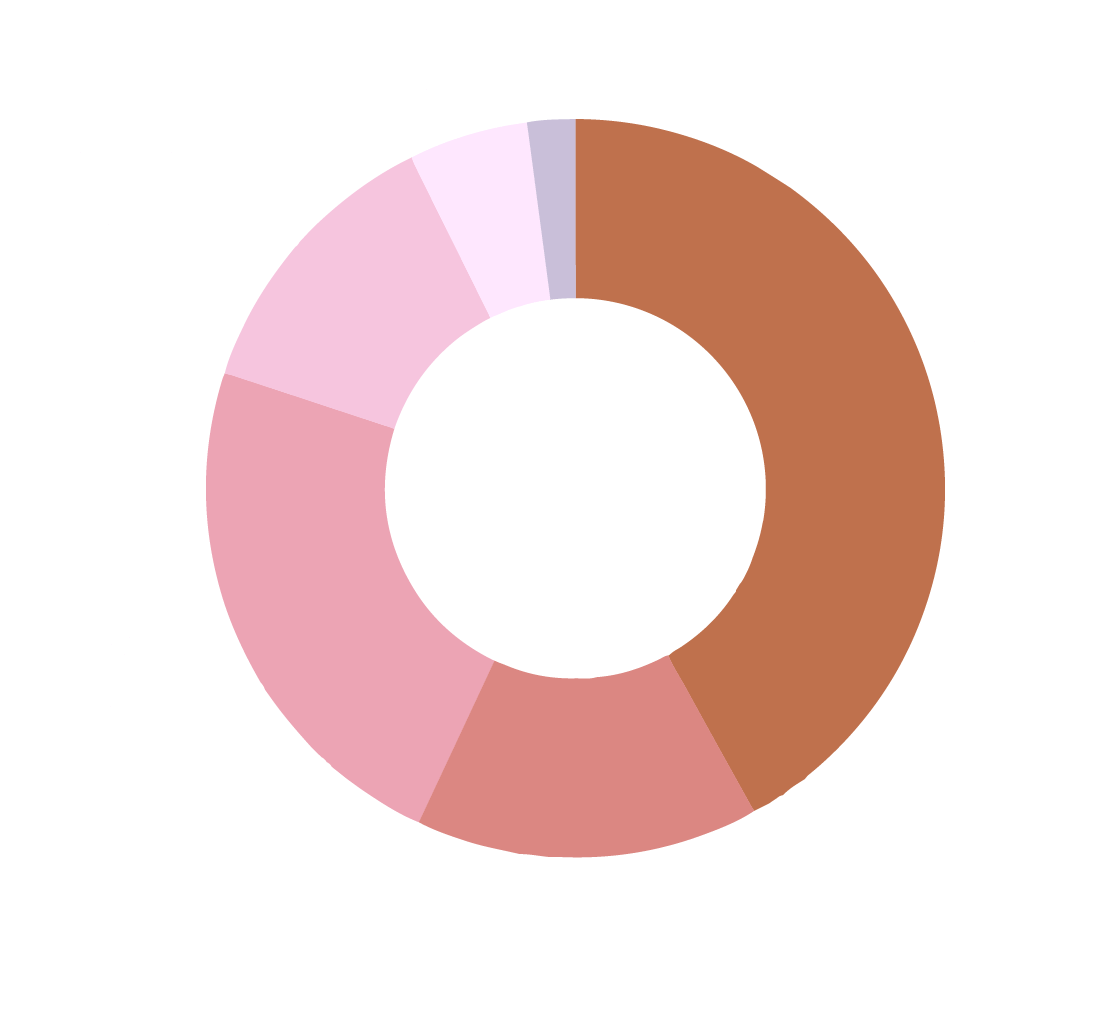
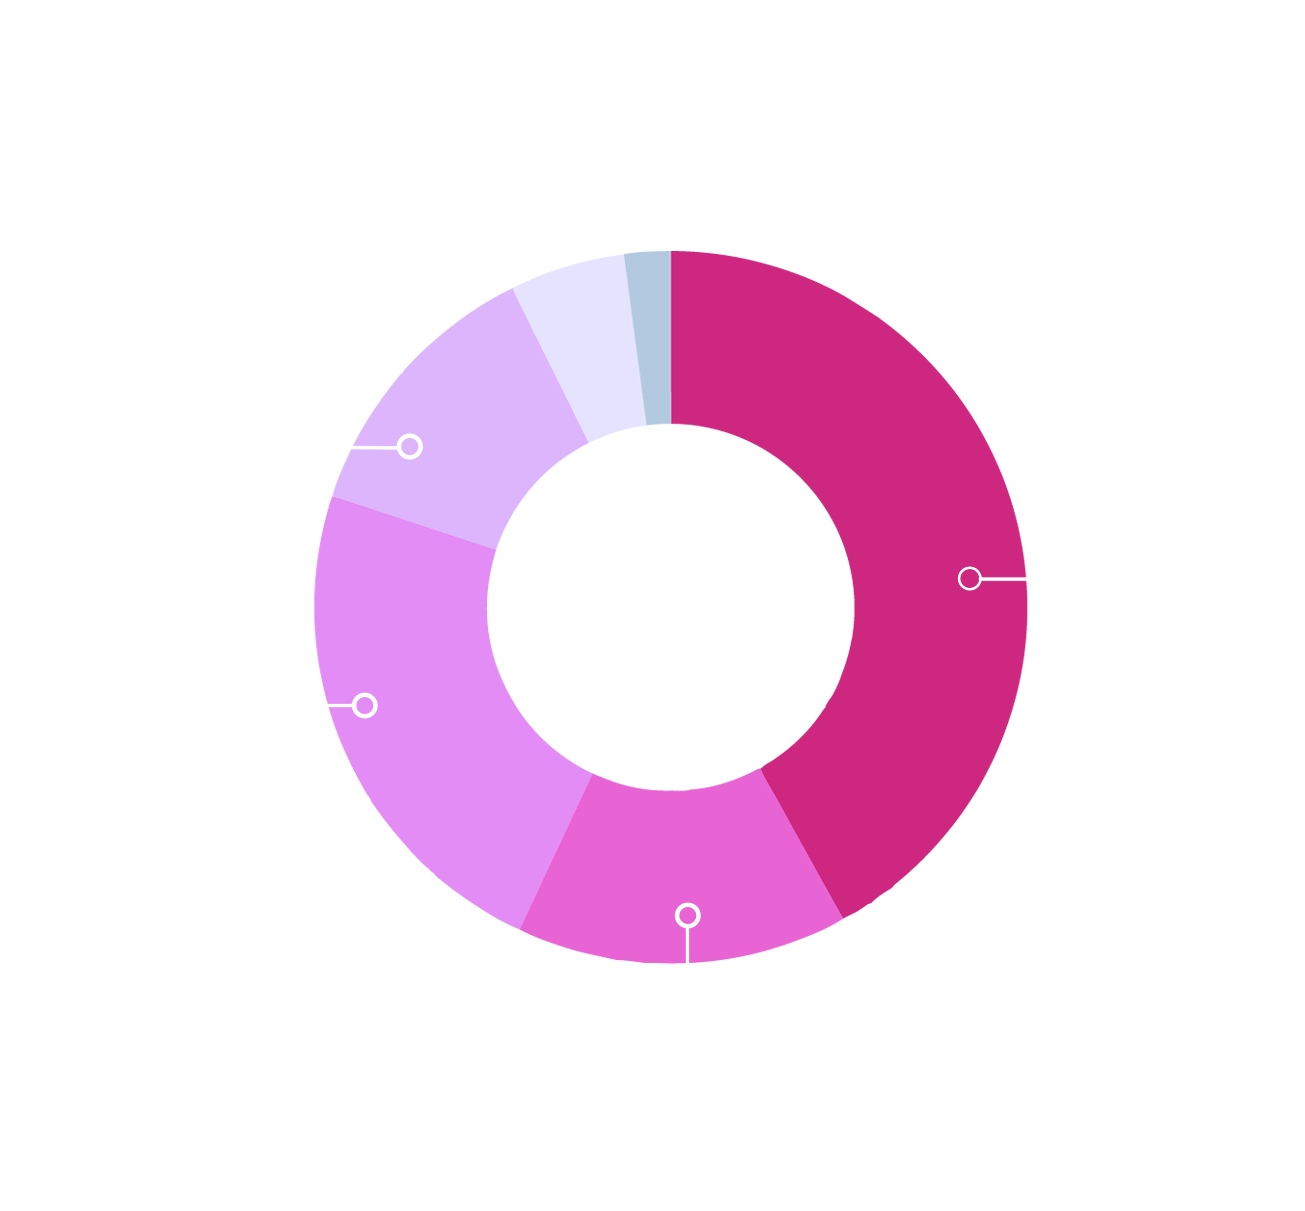
ouo

Changed region(s): [[0.1836, 0.0931, 0.8569, 0.838]]

diff --git a/index.html b/index.html
@@ -701,52 +701,54 @@ partners.</p>
 <h1 class="fw_600 yellow">Our Tokenomics</h1>
 </div>
 <div class="row tokenomicsbox align-items-center justify-content-center">
-<div class="col-md-5 order-2 order-md-1 my-4 my-md-0">
-<div class="tokenomics_card px-3 py-5">
-<div class="align-items-center m-0">
-<div class="fw_img"><img src="images/Tokenomics_img_1.png" alt="tokenomics images"></div>
-<div class="fw_txt">
-<h5 class="fw-normal left"><span class="fw-bold">Token Symbol:</span> RABIDDOGE OGE <br>
-<span class="fw-bold">Total Supply:</span><br>
-1,000,000,000,000,000 <br>
-<span class="fw-bold">Farming:</span> 40%<br>
-<span class="fw-bold">liquidity pool:</span> 14.3%<br>
-<span class="fw-bold">presale :</span> 22%<br>
-<span class="fw-bold">Private sale:</span> 12%(10% has been placed into Private Wallet Address)
-<br>
-<span class="fw-bold">Coin Burnt:</span> 4.7%<br>
-<span class="fw-bold">Airdrop:</span> 5%(4% has been placed into Airdrop Wallet Address)
-<br>
-<span class="fw-bold">IDO Fee:</span> 2%<br>
-<br>
-</h5>
-</div>
-</div>
-</div>
-<ul class="total">
-<li>After Presale, 65% of BNB goes into LP.</li>
-<li>2% to IDO handling fee.</li>
-<li>The rest will be into BNB farming pool and marketing.</li>
-</ul>
+<div class="col-md-5 order-2 order-md-1 my-4 my-md-0 text-center" >
+
+
+<img src="images/graph.png" alt="tokenomics images" height="400px">
+
+
+
+
+
 </div>
 <div class="col-md-5 order-3 order-md-3 Buying">
 <div class="tokenomics_card px-3 py-5">
 <div class="align-items-center m-0">
 <div class="fw_txt fw_txt2">
-<h5 class="fw-normal"><span class="fw-bold">Buying Fee (12%)</span><br>
-<br>
-· 6% to buyback fund<br>
-· 4% to development/marketing<br>
-· 2% reflection to Holders<br>
-<br>
-<span class="fw-bold">Selling Fee (18%)</span><br>
-<br>
-· 7% to buyback fund<br>
-· 7% reflection to holders<br>
-· 4% development/marketing<br>
-</h5>
+<ul class="toko">
+	<li class="toko-li">
+	<img src="images/bullet.png" height="40px" style="position: relative; top: 39px;">
+	<h2 style="margin-left:20px">Presale</h2> <br>
+	<span style="margin-left:20px; position: relative;
+    top: -10px;">coming soon</span>
+    </li>
+    <li class="toko-li">
+	<img src="images/bullet.png" height="40px" style="position: relative; top: 39px;">
+	<h2 style="margin-left:20px">Presale</h2> <br>
+	<span style="margin-left:20px; position: relative;
+    top: -10px;">coming soon</span>
+    </li>
+    <li class="toko-li">
+	<img src="images/bullet.png" height="40px" style="position: relative; top: 39px;">
+	<h2 style="margin-left:20px">Presale</h2> <br>
+	<span style="margin-left:20px; position: relative;
+    top: -10px;">coming soon</span>
+    </li>
+    <li class="toko-li">
+	<img src="images/bullet.png" height="40px" style="position: relative; top: 39px;">
+	<h2 style="margin-left:20px">Presale</h2> <br>
+	<span style="margin-left:20px; position: relative;
+    top: -10px;">coming soon</span>
+    </li>
+    <li class="toko-li">
+	<img src="images/bullet.png" height="40px" style="position: relative; top: 39px;">
+	<h2 style="margin-left:20px">Presale</h2> <br>
+	<span style="margin-left:20px; position: relative;
+    top: -10px;">coming soon</span>
+    </li>
+</ul>
 </div>
-<div class="fw_img fw_img2"><img src="images/Tokenomics_img_2.png" alt="tokenomics images"></div>
+<!-- <div class="fw_img fw_img2"><img src="images/Tokenomics_img_2.png" alt="tokenomics images"></div> -->
 </div>
 </div>
 </div>
@@ -976,9 +978,9 @@ code.) </p>
 <section class="inner2020 clearfix">
 <ul class="Seen-box">
 
-<li><img src="images/bnb1.png" /></li>
-<li><img src="images/logo4.png" /></li>
-<li><A href="https://www.coinscope.co/coin/RABIDDOGE oge" target="_blank"><img src="images/logo5.png" /></A></li>
+<li><img src="images/bnb1.png"  height="100px" /></li>
+<!-- <li><img src="images/logo4.png" /></li> -->
+<!-- <li><A href="https://www.coinscope.co/coin/RABIDDOGE oge" target="_blank"><img src="images/logo5.png" /></A></li> -->
 </ul>
 </section>
 <section class="social_icon_with_background_section" id="social_icon_section">

diff --git a/css/style.css b/css/style.css
@@ -958,3 +958,8 @@ button {
   -webkit-animation: bounce-down 1s linear infinite;
   animation: bounce-down 1s linear infinite;
 }
+
+.toko-li{
+
+  margin-bottom: -25px;
+}

diff --git a/css/index.css b/css/index.css
@@ -257,7 +257,7 @@ h6 {
   padding-bottom: 10px !important;
 }
 .tokenomicsbox {
-background-color: #B33F40 ;
+/*background-color: #B33F40 ;*/
 
 
   border-radius: 30px;
